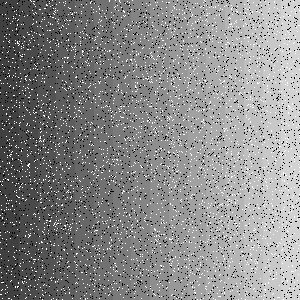
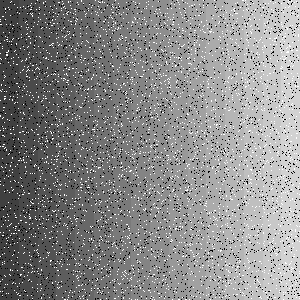
ROI.m

Changed region(s): [[0.0, 0.0, 1.0, 1.0]]

diff --git a/ROI/ROI.m b/ROI/ROI.m
@@ -1,0 +1,145 @@
+% ROI Noise Parameter Estimation
+%
+% Selects a fixed ROI from a uniform stripe of the vertical-stripes image,
+% then estimates the noise distribution from each corrupted image.
+% Compares estimated parameters against the theoretical values used in ApplyNoise.m.
+%
+% ROI location: columns 132-150 (stripe 8, original gray ≈ 132), rows 10-290.
+% Noise estimate: noise_ROI = double(noisy_pixel) - baseline_gray
+%   For Gaussian/Uniform → additive, so estimated noise ≈ actual noise (slight
+%   deviation possible at image boundaries due to uint8 clipping).
+%   For Salt & Pepper   → count fraction of 0s (pepper) and 255s (salt) in ROI.
+
+% ── Paths ────────────────────────────────────────────────────────────────
+roi_root   = fileparts(mfilename('fullpath'));
+hw4_root   = fileparts(roi_root);
+result_dir = fullfile(hw4_root, 'NoiseMatrix', 'ApplyNoise', 'result');
+
+% ── ROI coordinates ───────────────────────────────────────────────────────
+% Stripe 8 of the 300×300 / 16-stripe image:
+%   x_start = round(7 * 300/16) + 1 = 132,  x_end = round(8 * 300/16) = 150
+roi_rows = 10:290;   % avoid image border effects
+roi_cols = 132:150;  % within stripe 8
+
+% ── Load original image and get baseline gray level ───────────────────────
+orig = imread(fullfile(hw4_root, 'Picture', 'grayscale_stripes.png'));
+if size(orig, 3) == 3, orig = rgb2gray(orig); end
+orig_roi = double(orig(roi_rows, roi_cols));
+baseline = mean(orig_roi(:));   % ≈ 132 (uniform within stripe)
+
+% ── Noise level definitions (must match ApplyNoise.m) ────────────────────
+gauss_mean = 0;
+levels(1) = struct('label','Low',    'tag','low',    'gauss_std',10,  'Pa',0.01,'Pb',0.01,'uni_a',-20, 'uni_b',20 );
+levels(2) = struct('label','Medium', 'tag','medium', 'gauss_std',25,  'Pa',0.05,'Pb',0.05,'uni_a',-50, 'uni_b',50 );
+levels(3) = struct('label','High',   'tag','high',   'gauss_std',50,  'Pa',0.15,'Pb',0.15,'uni_a',-100,'uni_b',100);
+
+if ~exist(fullfile(roi_root,'result'),'dir'), mkdir(fullfile(roi_root,'result')); end
+
+% ── Print header ─────────────────────────────────────────────────────────
+n_roi = numel(roi_rows) * numel(roi_cols);
+fprintf('\n=== ROI Noise Estimation ===\n');
+fprintf('Baseline gray = %.1f   |   ROI size = %d×%d = %d pixels\n\n', ...
+    baseline, numel(roi_rows), numel(roi_cols), n_roi);
+fprintf('%-8s  %-10s  %-24s  %-24s\n', 'Level','Noise','Theory','Estimated');
+fprintf('%s\n', repmat('-',1,72));
+
+% ── Analysis loop (one figure per level) ─────────────────────────────────
+for k = 1:3
+    lv = levels(k);
+
+    % Load noisy images
+    img_g  = double(imread(fullfile(result_dir, sprintf('gaussian_%s.png',   lv.tag))));
+    img_u  = double(imread(fullfile(result_dir, sprintf('uniform_%s.png',    lv.tag))));
+    img_sp =  uint8(imread(fullfile(result_dir, sprintf('saltpepper_%s.png', lv.tag))));
+
+    % Estimate additive noise from ROI
+    noise_g = img_g(roi_rows, roi_cols) - orig_roi;
+    noise_u = img_u(roi_rows, roi_cols) - orig_roi;
+    roi_sp  = img_sp(roi_rows, roi_cols);
+
+    % Gaussian estimates
+    est_mu_g  = mean(noise_g(:));
+    est_std_g = std(noise_g(:));
+
+    % Uniform estimates
+    theory_mu_u  = (lv.uni_a + lv.uni_b) / 2;
+    theory_std_u = (lv.uni_b - lv.uni_a) / sqrt(12);
+    est_mu_u  = mean(noise_u(:));
+    est_std_u = std(noise_u(:));
+
+    % S&P estimates (baseline ≈132 → all 0s=pepper, all 255s=salt)
+    est_Pa = nnz(roi_sp == 0)   / n_roi;
+    est_Pb = nnz(roi_sp == 255) / n_roi;
+
+    % Print results
+    fprintf('%-8s  %-10s  mu=%4g   sigma=%-6g    mu=%6.2f   sigma=%.2f\n', ...
+        lv.label, 'Gaussian', gauss_mean, lv.gauss_std, est_mu_g, est_std_g);
+    fprintf('%-8s  %-10s  mu=%4g   sigma=%-6.2f  mu=%6.2f   sigma=%.2f\n', ...
+        lv.label, 'Uniform', theory_mu_u, theory_std_u, est_mu_u, est_std_u);
+    fprintf('%-8s  %-10s  Pa=%.3f  Pb=%.3f            Pa=%.4f  Pb=%.4f\n\n', ...
+        lv.label, 'S&P', lv.Pa, lv.Pb, est_Pa, est_Pb);
+
+    % ── Figure: 3 rows × 2 cols ──────────────────────────────────────────
+    fig = figure('Name', sprintf('ROI Analysis — %s', lv.label), ...
+                 'Position', [50 50 1100 900]);
+
+    % --- Row 1: Gaussian ---
+    subplot(3,2,1);
+    imshow(uint8(img_g)); hold on;
+    rectangle('Position', [roi_cols(1), roi_rows(1), numel(roi_cols)-1, numel(roi_rows)-1], ...
+        'EdgeColor','r', 'LineWidth', 2);
+    title(sprintf('[%s] Gaussian  (\sigma=%g)', lv.label, lv.gauss_std));
+
+    subplot(3,2,2);
+    histogram(noise_g(:), 50, 'Normalization','pdf', ...
+        'FaceColor',[0.2 0.5 0.9], 'EdgeColor','none'); hold on;
+    x_g = linspace(min(noise_g(:))-5, max(noise_g(:))+5, 300);
+    plot(x_g, normpdf(x_g, gauss_mean, lv.gauss_std), 'r-', 'LineWidth', 2);
+    xline(est_mu_g, 'b--', 'LineWidth', 1.5);
+    title(sprintf('Gaussian ROI noise PDF\n\\mu_{est}=%.2f (theory %g)   \\sigma_{est}=%.2f (theory %g)', ...
+        est_mu_g, gauss_mean, est_std_g, lv.gauss_std));
+    xlabel('Noise value'); ylabel('PDF');
+    legend('ROI histogram','Theoretical PDF',sprintf('Est \\mu=%.2f',est_mu_g),'Location','best');
+
+    % --- Row 2: Uniform ---
+    subplot(3,2,3);
+    imshow(uint8(img_u)); hold on;
+    rectangle('Position', [roi_cols(1), roi_rows(1), numel(roi_cols)-1, numel(roi_rows)-1], ...
+        'EdgeColor','y', 'LineWidth', 2);
+    title(sprintf('[%s] Uniform  [%g, %g]', lv.label, lv.uni_a, lv.uni_b));
+
+    subplot(3,2,4);
+    histogram(noise_u(:), 50, 'Normalization','pdf', ...
+        'FaceColor',[0.9 0.7 0.2], 'EdgeColor','none'); hold on;
+    uni_h = 1 / (lv.uni_b - lv.uni_a);
+    fill([lv.uni_a lv.uni_b lv.uni_b lv.uni_a], [0 0 uni_h uni_h], 'r', ...
+        'FaceAlpha', 0.2, 'EdgeColor','r', 'LineWidth', 2);
+    title(sprintf('Uniform ROI noise PDF\n\\mu_{est}=%.2f (theory %g)   \\sigma_{est}=%.2f (theory %.2f)', ...
+        est_mu_u, theory_mu_u, est_std_u, theory_std_u));
+    xlabel('Noise value'); ylabel('PDF');
+    legend('ROI histogram','Theoretical PDF','Location','best');
+
+    % --- Row 3: Salt & Pepper ---
+    subplot(3,2,5);
+    imshow(img_sp); hold on;
+    rectangle('Position', [roi_cols(1), roi_rows(1), numel(roi_cols)-1, numel(roi_rows)-1], ...
+        'EdgeColor','g', 'LineWidth', 2);
+    title(sprintf('[%s] Salt & Pepper  (Pa=%.3f, Pb=%.3f)', lv.label, lv.Pa, lv.Pb));
+
+    subplot(3,2,6);
+    bar_data = [lv.Pa, est_Pa; lv.Pb, est_Pb];
+    b = bar(bar_data);
+    b(1).FaceColor = [0.3 0.3 0.3];
+    b(2).FaceColor = [0.8 0.8 0.8];
+    set(gca, 'XTickLabel', {'Pepper (Pa)', 'Salt (Pb)'});
+    legend('Theoretical','Estimated','Location','best');
+    title(sprintf('S&P probability\nPa: theory=%.3f  est=%.4f\nPb: theory=%.3f  est=%.4f', ...
+        lv.Pa, est_Pa, lv.Pb, est_Pb));
+    ylabel('Probability');
+
+    sgtitle(sprintf('ROI Analysis — %s Noise Level  (baseline gray = %.0f)', lv.label, baseline));
+
+    exportgraphics(fig, fullfile(roi_root,'result',sprintf('ROI_%s.png',lv.tag)), 'Resolution',300);
+end
+
+fprintf('Done. Figures saved to ROI/result/\n');

diff --git a/NoiseMatrix/ApplyNoise/ApplyNoise.m b/NoiseMatrix/ApplyNoise/ApplyNoise.m
@@ -1,5 +1,6 @@
 % Apply Noise to Grayscale Stripes Image
-% Calls GaussianNoise, SaltPepperNoise, and UniformNoise functions.
+% Three noise levels: Low / Medium / High
+% Displays a 3x4 grid: each row = one level, cols = Original/Gaussian/S&P/Uniform
 
 % ── Add noise function directories to MATLAB path ─────────────────────────
 noise_root = fileparts(fileparts(mfilename('fullpath')));
@@ -9,47 +10,59 @@ addpath(fullfile(noise_root, 'UniformNoise'));
 
 % ── Load original image ───────────────────────────────────────────────────
 hw4_root = fileparts(noise_root);
-img = imread(fullfile(hw4_root, 'CreateStripes', 'grayscale_stripes.png'));
+img = imread(fullfile(hw4_root, 'Picture', 'grayscale_stripes.png'));
 if size(img, 3) == 3, img = rgb2gray(img); end
 [M, N] = size(img);
 
-% ── Noise parameters ──────────────────────────────────────────────────────
-gauss_mean = 0;   gauss_std = 25;
-Pa = 0.05;        Pb = 0.05;
-uni_a = -50;      uni_b = 50;
+% ── Noise level definitions ───────────────────────────────────────────────
+%   Fields: label, gauss_std, Pa, Pb, uni_a, uni_b
+levels(1) = struct('label','Low',    'gauss_std',10,  'Pa',0.01,'Pb',0.01,'uni_a',-20, 'uni_b',20 );
+levels(2) = struct('label','Medium', 'gauss_std',25,  'Pa',0.05,'Pb',0.05,'uni_a',-50, 'uni_b',50 );
+levels(3) = struct('label','High',   'gauss_std',50,  'Pa',0.15,'Pb',0.15,'uni_a',-100,'uni_b',100);
 
-% ── Generate / apply noise via functions ─────────────────────────────────
-n_gauss   = GaussianNoise(M, N, gauss_mean, gauss_std);     % additive noise
-n_uniform = UniformNoise(M, N, uni_a, uni_b);               % additive noise
-noisy_sp  = SaltPepperNoise(img, Pa, Pb);                   % returns corrupted image
+gauss_mean = 0;
+clip = @(x) uint8(min(255, max(0, double(x))));
+img_d = double(img);
 
-clip = @(x) uint8(min(255, max(0, x)));
-img_d          = double(img);
-noisy_gaussian = clip(img_d + n_gauss);
-noisy_uniform  = clip(img_d + n_uniform);
+% ── Display 3x4 grid ─────────────────────────────────────────────────────
+figure('Position', [50 50 1400 780]);
 
-% ── Display comparison ───────────────────────────────────────────────────
-figure('Position', [50 50 1400 380]);
-
-subplot(1,4,1); imshow(img);           title('Original');
-subplot(1,4,2); imshow(noisy_gaussian); title(sprintf('+ Gaussian\n\\mu=%g, \\sigma=%g', gauss_mean, gauss_std));
-subplot(1,4,3); imshow(noisy_sp);      title(sprintf('+ Salt & Pepper\nPa=%.2f, Pb=%.2f', Pa, Pb));
-subplot(1,4,4); imshow(noisy_uniform); title(sprintf('+ Uniform\na=%g, b=%g', uni_a, uni_b));
-
-sgtitle('Grayscale Stripes with Added Noise');
-
-% ── Save results ──────────────────────────────────────────────────────────
 if ~exist('result', 'dir'), mkdir('result'); end
 
-imwrite(img,            fullfile('result', 'original.png'));
-imwrite(noisy_gaussian, fullfile('result', 'gaussian_applied.png'));
-imwrite(noisy_sp,       fullfile('result', 'saltpepper_applied.png'));
-imwrite(noisy_uniform,  fullfile('result', 'uniform_applied.png'));
-exportgraphics(gcf,     fullfile('result', 'ApplyNoise_result.png'), 'Resolution', 300);
+for k = 1:3
+    lv = levels(k);
+
+    n_gauss        = GaussianNoise(M, N, gauss_mean, lv.gauss_std);
+    n_uniform      = UniformNoise(M, N, lv.uni_a, lv.uni_b);
+    noisy_sp       = SaltPepperNoise(img, lv.Pa, lv.Pb);
+    noisy_gaussian = clip(img_d + n_gauss);
+    noisy_uniform  = clip(img_d + n_uniform);
+
+    row = (k-1)*4;
+    subplot(3,4,row+1); imshow(img);
+        title(sprintf('[%s] Original', lv.label));
+    subplot(3,4,row+2); imshow(noisy_gaussian);
+        title(sprintf('[%s] Gaussian\n\\mu=%g, \\sigma=%g', lv.label, gauss_mean, lv.gauss_std));
+    subplot(3,4,row+3); imshow(noisy_sp);
+        title(sprintf('[%s] Salt & Pepper\nPa=%.2f, Pb=%.2f', lv.label, lv.Pa, lv.Pb));
+    subplot(3,4,row+4); imshow(noisy_uniform);
+        title(sprintf('[%s] Uniform\na=%g, b=%g', lv.label, lv.uni_a, lv.uni_b));
+
+    % Save individual noisy images
+    tag = lower(lv.label);
+    imwrite(noisy_gaussian, fullfile('result', sprintf('gaussian_%s.png',    tag)));
+    imwrite(noisy_sp,       fullfile('result', sprintf('saltpepper_%s.png',  tag)));
+    imwrite(noisy_uniform,  fullfile('result', sprintf('uniform_%s.png',     tag)));
+end
+
+sgtitle('Grayscale Stripes with Added Noise (Low / Medium / High)');
+
+imwrite(img, fullfile('result', 'original.png'));
+exportgraphics(gcf, fullfile('result', 'ApplyNoise_result.png'), 'Resolution', 300);
 
 fprintf('Done. Results saved to ApplyNoise/result/\n');
-fprintf('  original.png\n');
-fprintf('  gaussian_applied.png    (mu=%g, sigma=%g)\n', gauss_mean, gauss_std);
-fprintf('  saltpepper_applied.png  (Pa=%.2f, Pb=%.2f)\n', Pa, Pb);
-fprintf('  uniform_applied.png     (a=%g, b=%g)\n', uni_a, uni_b);
-fprintf('  ApplyNoise_result.png   (comparison figure)\n');
+for k = 1:3
+    tag = lower(levels(k).label);
+    fprintf('  gaussian_%s.png | saltpepper_%s.png | uniform_%s.png\n', tag, tag, tag);
+end
+fprintf('  ApplyNoise_result.png  (comparison figure)\n');
